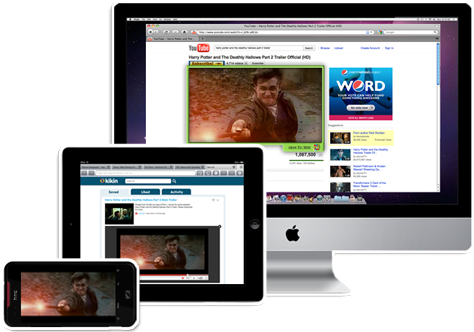
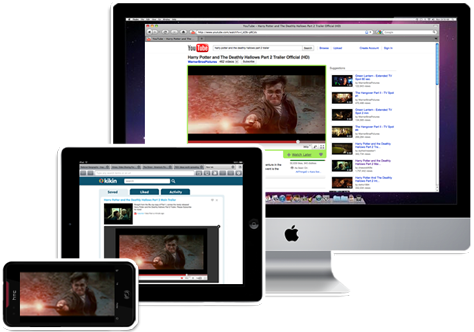
tweaked the image on the homepage and made the follow button smaller on the logged in view

diff --git a/static/css/logged_in.css b/static/css/logged_in.css
@@ -41,8 +41,8 @@
 .follow-button{
     position:absolute;
     margin-top:8px;
-    margin-left: 200px;
-    width:80px;
+    margin-left: 220px;
+    width:60px;
     height:24px;
     border-radius: 6px;
     -moz-border-radius:6px;

diff --git a/settings.py b/settings.py
@@ -45,7 +45,7 @@ database_configurations = {
 }
 
 # Picks up database configuration from environment variable
-active_db = os.environ.get('VIDEO_ENV', 'local')
+active_db = os.environ.get('VIDEO_ENV', 'local_sqlite')
 
 DATABASES = { 'default': database_configurations[active_db] }
 
